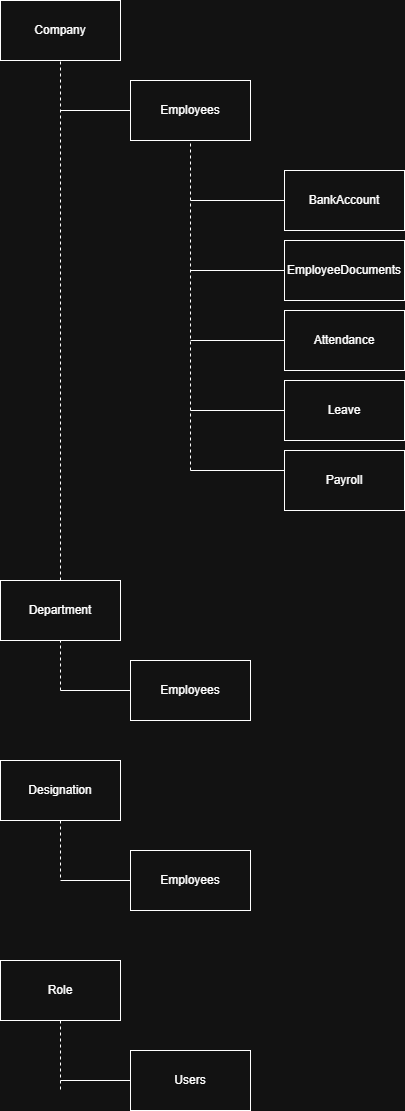
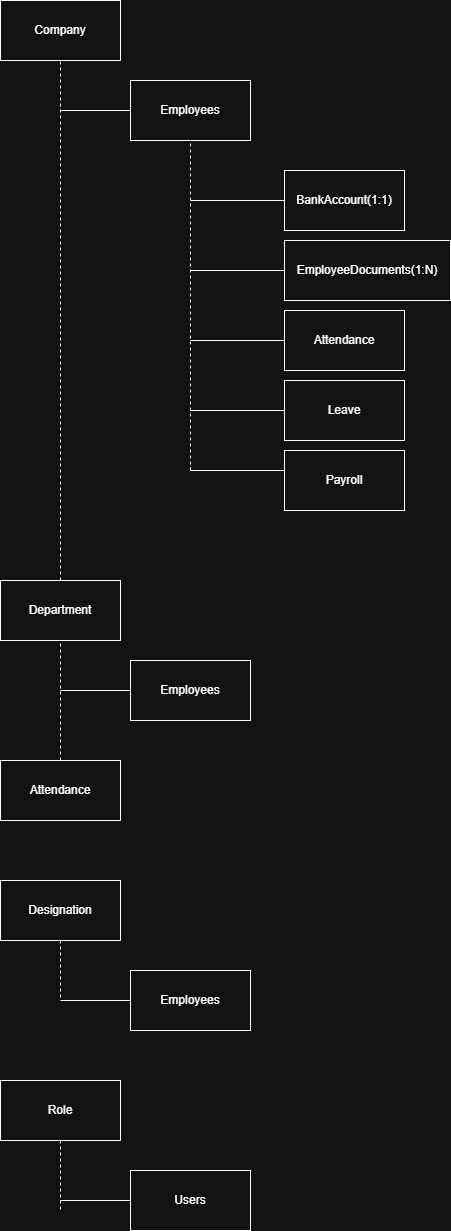
feat: add attendance model and relationships

diff --git a/docs/DATABASE.md b/docs/DATABASE.md
@@ -94,3 +94,21 @@ Future enhancement:
 Stores metadata for uploaded files.
 
 Actual files are stored in Supabase Storage.
+
+## Attendance
+
+Purpose:
+Stores one attendance record per employee per working day.
+
+Rules:
+- One record per employee per date.
+- Stores working minutes.
+- Stores overtime separately.
+- Supports remarks.
+- Belongs to one company.
+
+Indexes:
+- employeeId
+- attendanceDate
+- status
+- companyId